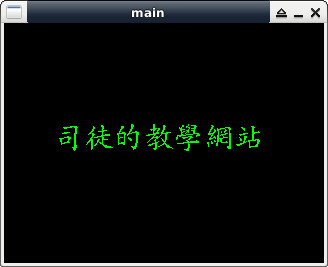
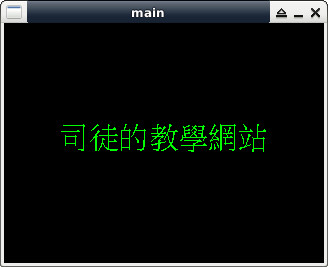
update sdl pages

Changed region(s): [[0.1829, 0.4494, 0.8232, 0.5693]]

diff --git a/phone/xt897/lipstick.htm b/phone/xt897/lipstick.htm
@@ -21,15 +21,15 @@
   <meta name="googlebot" content="noarchive" />
   <meta name="viewport" content="width=device-width, initial-scale=1.0, user-scalable=yes, minimum-scale=0.1, maximum-scale=100.0"/>
 
-  <link rel="shortcut icon" href="../../../../website.ico">
-  <link rel="stylesheet" type="text/css" href="../../../styles/shCore.css" />
-  <link rel="stylesheet" type="text/css" href="../../../styles/shThemeDefault.css" />
-  <link rel="stylesheet" type="text/css" href="../../../css/html.css" media="screen, projection, tv " />
-  <link rel="stylesheet" type="text/css" href="../../../css/layout.css" media="screen, projection, tv" />
-  <link rel="stylesheet" type="text/css" href="../../../css/print.css" media="print" />
+  <link rel="shortcut icon" href="../../website.ico">
+  <link rel="stylesheet" type="text/css" href="../../styles/shCore.css" />
+  <link rel="stylesheet" type="text/css" href="../../styles/shThemeDefault.css" />
+  <link rel="stylesheet" type="text/css" href="../../css/html.css" media="screen, projection, tv " />
+  <link rel="stylesheet" type="text/css" href="../../css/layout.css" media="screen, projection, tv" />
+  <link rel="stylesheet" type="text/css" href="../../css/print.css" media="print" />
   
-  <script type="text/javascript" src="../../../scripts/shCore.js"></script>
-  <script type="text/javascript" src="../../../scripts/shBrushCpp.js"></script>
+  <script type="text/javascript" src="../../scripts/shCore.js"></script>
+  <script type="text/javascript" src="../../scripts/shBrushCpp.js"></script>
 
   <!-- Conditional comment to apply opacity fix for IE #content background.
        Invalid CSS, but can be removed without harming design -->
@@ -42,51 +42,22 @@
 <script type="text/javascript">SyntaxHighlighter.all();</script>
 <div id="wrapper">
 <div id="content">
-<script type="text/javascript" src="../../../header.js"></script>
+<script type="text/javascript" src="../../header.js"></script>
 <div id="page">
-<h3>SDL v1.2 &gt;&gt; C/C++</h3>
-<p><b>Load Music</b></p>
+<h3>Motorola XT897 &gt;&gt; Sailfish</h3>
+<p><b>如何旋轉畫面</b></p>
 <hr size="1">
 <p>
-參考資訊：<br>
-1. <a href="https://www.libsdl.org/release/SDL-1.2.15/docs/html/index.html">docs</a><br><br>
-
-main.c
-</p>
-<pre class="brush:cpp">
-#include &lt;stdio.h&gt;
-#include &lt;stdlib.h&gt;
-#include &lt;SDL.h&gt;
-#include &lt;SDL_mixer.h&gt;
-
-int main(int argc, char** argv)
-{
-  SDL_Init(SDL_INIT_VIDEO | SDL_INIT_AUDIO);
-  Mix_OpenAudio(44100, MIX_DEFAULT_FORMAT, 2, 4096);
- 
-  Mix_Music *music = Mix_LoadMUS("main.wav");
-  Mix_PlayMusic(music, 1);
-  SDL_Delay(3000);
-
-  Mix_HaltMusic();
-  Mix_FreeMusic(music);
-  Mix_CloseAudio();
-  SDL_Quit();
-  return 0;
-}
-</pre>
-<p>
-P.S. 支援WAVE, MOD, MIDI, OGG, MP3, FLAC<br><br>
-
-編譯、執行
+步驟如下：
 </p>
 <pre>
-$ gcc main.c -o main -lSDL -lSDL_mixer -I/usr/include/SDL
-$ ./main
+$ dconf write /lipstick/orientationLock \'auto\'
+$ dconf write /lipstick/orientationLock \'protrait\'
+$ dconf write /lipstick/orientationLock \'landscape\'
 </pre><br>
 
 <p>
-<br><a href="../../../program.htm">返回上一頁</a>
+<br><a href="../../phone.htm">返回上一頁</a>
 </p>
 
 </div>

diff --git a/program/sdl/v2.0/cpp_font.htm b/program/sdl/v2.0/cpp_font.htm
@@ -68,7 +68,8 @@ int main(int argc, char **argv)
   SDL_Surface *screen=NULL;
   SDL_Texture *texture=NULL;
   SDL_Renderer *renderer=NULL;
- 
+
+  SDL_Init(SDL_INIT_VIDEO);
   window = SDL_CreateWindow("main", SDL_WINDOWPOS_UNDEFINED, SDL_WINDOWPOS_UNDEFINED, w, h, SDL_WINDOW_SHOWN);
   renderer = SDL_CreateRenderer(window, -1, SDL_RENDERER_ACCELERATED | SDL_RENDERER_PRESENTVSYNC);
   screen = SDL_CreateRGBSurface(0, w, h, bpp, 0, 0, 0, 0);
@@ -77,10 +78,15 @@ int main(int argc, char **argv)
   TTF_Init();
   TTF_Font *font = TTF_OpenFont("font.ttf", 30);
   SDL_FillRect(screen, &amp;screen-&gt;clip_rect, SDL_MapRGB(screen-&gt;format, 0x00, 0x00, 0x00));
- 
+
+  int ww=0, hh=0;
   SDL_Color col={0, 255, 0};
-  SDL_Rect rt={50, 100, 0, 0};
-  SDL_Surface *msg = TTF_RenderUTF8_Solid(font, "司徒的教學網站", col);
+  SDL_Rect rt={0, 100, 0, 0};
+  const char* cc="司徒的教學網站";
+
+  TTF_SizeUTF8(font, cc, &amp;ww, &amp;hh);
+  rt.x = (w - ww) / 2;
+  SDL_Surface *msg = TTF_RenderUTF8_Solid(font, cc, col);
   SDL_BlitSurface(msg, NULL, screen, &amp;rt);
   SDL_FreeSurface(msg);
  

diff --git a/program/sdl/v1.2/cpp_font.htm b/program/sdl/v1.2/cpp_font.htm
@@ -70,14 +70,19 @@ int main(int argc, char* args[])
   TTF_Font *font = TTF_OpenFont("font.ttf", 30);
   SDL_FillRect(screen, &amp;screen-&gt;clip_rect, SDL_MapRGB(screen-&gt;format, 0x00, 0x00, 0x00));
 
+  int w=0, h=0;
   SDL_Color col={0, 255, 0};
-  SDL_Rect rt={50, 100, 0, 0};
-  SDL_Surface *msg = TTF_RenderUTF8_Solid(font, "司徒的教學網站", col);
+  SDL_Rect rt={0, 100, 0, 0};
+  const char* cc="司徒的教學網站";
+
+  TTF_SizeUTF8(font, cc, &amp;w, &amp;h);
+  rt.x = (320 - w) / 2;
+  SDL_Surface *msg = TTF_RenderUTF8_Solid(font, cc, col);
   SDL_BlitSurface(msg, NULL, screen, &amp;rt);
   SDL_Flip(screen);
   SDL_FreeSurface(msg);
   SDL_Delay(3000);
-  
+
   TTF_CloseFont(font);
   TTF_Quit();
   SDL_Quit();

diff --git a/program/sdl/v2.0/cpp_font_rw.htm b/program/sdl/v2.0/cpp_font_rw.htm
@@ -70,7 +70,8 @@ int main(int argc, char **argv)
   SDL_Surface *screen=NULL;
   SDL_Texture *texture=NULL;
   SDL_Renderer *renderer=NULL;
-  
+
+  SDL_Init(SDL_INIT_VIDEO);
   window = SDL_CreateWindow("main", SDL_WINDOWPOS_UNDEFINED, SDL_WINDOWPOS_UNDEFINED, w, h, SDL_WINDOW_SHOWN);
   renderer = SDL_CreateRenderer(window, -1, SDL_RENDERER_ACCELERATED | SDL_RENDERER_PRESENTVSYNC);
   screen = SDL_CreateRGBSurface(0, w, h, bpp, 0, 0, 0, 0);

diff --git a/program/sdl/v2.0/cpp_alpha.htm b/program/sdl/v2.0/cpp_alpha.htm
@@ -68,7 +68,8 @@ int main(int argc, char **argv)
   SDL_Surface *screen=NULL;
   SDL_Texture *texture=NULL;
   SDL_Renderer *renderer=NULL;
- 
+
+  SDL_Init(SDL_INIT_VIDEO);
   window = SDL_CreateWindow("main", SDL_WINDOWPOS_UNDEFINED, SDL_WINDOWPOS_UNDEFINED, w, h, SDL_WINDOW_SHOWN);
   renderer = SDL_CreateRenderer(window, -1, SDL_RENDERER_ACCELERATED | SDL_RENDERER_PRESENTVSYNC);
   screen = SDL_CreateRGBSurface(0, w, h, bpp, 0, 0, 0, 0);

diff --git a/program/sdl/v2.0/cpp_blit.htm b/program/sdl/v2.0/cpp_blit.htm
@@ -67,7 +67,8 @@ int main(int argc, char** argv)
   SDL_Surface *screen=NULL;
   SDL_Texture *texture=NULL;
   SDL_Renderer *renderer=NULL;
- 
+
+  SDL_Init(SDL_INIT_VIDEO);
   window = SDL_CreateWindow("main", SDL_WINDOWPOS_UNDEFINED, SDL_WINDOWPOS_UNDEFINED, w, h, SDL_WINDOW_SHOWN);
   renderer = SDL_CreateRenderer(window, -1, SDL_RENDERER_ACCELERATED | SDL_RENDERER_PRESENTVSYNC);
   screen = SDL_CreateRGBSurface(0, w, h, bpp, 0, 0, 0, 0);

diff --git a/program/sdl/v2.0/cpp_bmp_rw.htm b/program/sdl/v2.0/cpp_bmp_rw.htm
@@ -69,7 +69,8 @@ int main(int argc, char** argv)
   SDL_Surface *screen=NULL;
   SDL_Texture *texture=NULL;
   SDL_Renderer *renderer=NULL;
- 
+
+  SDL_Init(SDL_INIT_VIDEO);
   window = SDL_CreateWindow("main", SDL_WINDOWPOS_UNDEFINED, SDL_WINDOWPOS_UNDEFINED, w, h, SDL_WINDOW_SHOWN);
   renderer = SDL_CreateRenderer(window, -1, SDL_RENDERER_ACCELERATED | SDL_RENDERER_PRESENTVSYNC);
   screen = SDL_CreateRGBSurface(0, w, h, bpp, 0, 0, 0, 0);

diff --git a/program/sdl/v2.0/cpp_colorkey.htm b/program/sdl/v2.0/cpp_colorkey.htm
@@ -67,7 +67,8 @@ int main(int argc, char** argv)
   SDL_Surface *screen=NULL;
   SDL_Texture *texture=NULL;
   SDL_Renderer *renderer=NULL;
- 
+
+  SDL_Init(SDL_INIT_VIDEO);
   window = SDL_CreateWindow("main", SDL_WINDOWPOS_UNDEFINED, SDL_WINDOWPOS_UNDEFINED, w, h, SDL_WINDOW_SHOWN);
   renderer = SDL_CreateRenderer(window, -1, SDL_RENDERER_ACCELERATED | SDL_RENDERER_PRESENTVSYNC);
   screen = SDL_CreateRGBSurface(0, w, h, bpp, 0, 0, 0, 0);

diff --git a/program/sdl/v2.0/cpp_convert.htm b/program/sdl/v2.0/cpp_convert.htm
@@ -67,7 +67,8 @@ int main(int argc, char** argv)
   SDL_Surface *screen=NULL;
   SDL_Texture *texture=NULL;
   SDL_Renderer *renderer=NULL;
- 
+
+  SDL_Init(SDL_INIT_VIDEO);
   window = SDL_CreateWindow("main", SDL_WINDOWPOS_UNDEFINED, SDL_WINDOWPOS_UNDEFINED, w, h, SDL_WINDOW_SHOWN);
   renderer = SDL_CreateRenderer(window, -1, SDL_RENDERER_ACCELERATED | SDL_RENDERER_PRESENTVSYNC);
   screen = SDL_CreateRGBSurface(0, w, h, bpp, 0, 0, 0, 0);

diff --git a/program/sdl/v2.0/cpp_pixels.htm b/program/sdl/v2.0/cpp_pixels.htm
@@ -67,7 +67,8 @@ int main(int argc, char **argv)
   SDL_Surface *screen=NULL;
   SDL_Texture *texture=NULL;
   SDL_Renderer *renderer=NULL;
- 
+
+  SDL_Init(SDL_INIT_VIDEO);
   window = SDL_CreateWindow("main", SDL_WINDOWPOS_UNDEFINED, SDL_WINDOWPOS_UNDEFINED, w, h, SDL_WINDOW_SHOWN);
   renderer = SDL_CreateRenderer(window, -1, SDL_RENDERER_ACCELERATED | SDL_RENDERER_PRESENTVSYNC);
   screen = SDL_CreateRGBSurface(0, w, h, bpp, 0, 0, 0, 0);

diff --git a/program/sdl/v2.0/cpp_png_rw.htm b/program/sdl/v2.0/cpp_png_rw.htm
@@ -70,7 +70,8 @@ int main(int argc, char** argv)
   SDL_Surface *screen=NULL;
   SDL_Texture *texture=NULL;
   SDL_Renderer *renderer=NULL;
- 
+
+  SDL_Init(SDL_INIT_VIDEO);
   window = SDL_CreateWindow("main", SDL_WINDOWPOS_UNDEFINED, SDL_WINDOWPOS_UNDEFINED, w, h, SDL_WINDOW_SHOWN);
   renderer = SDL_CreateRenderer(window, -1, SDL_RENDERER_ACCELERATED | SDL_RENDERER_PRESENTVSYNC);
   screen = SDL_CreateRGBSurface(0, w, h, bpp, 0, 0, 0, 0);

diff --git a/program/sdl/v2.0/cpp_rotate.htm b/program/sdl/v2.0/cpp_rotate.htm
@@ -67,7 +67,8 @@ int main(int argc, char** argv)
   SDL_Surface *screen=NULL;
   SDL_Texture *texture=NULL;
   SDL_Renderer *renderer=NULL;
- 
+
+  SDL_Init(SDL_INIT_VIDEO);
   window = SDL_CreateWindow("main", SDL_WINDOWPOS_UNDEFINED, SDL_WINDOWPOS_UNDEFINED, w, h, SDL_WINDOW_SHOWN);
   renderer = SDL_CreateRenderer(window, -1, SDL_RENDERER_ACCELERATED | SDL_RENDERER_PRESENTVSYNC);
   screen = SDL_CreateRGBSurface(0, w, h, bpp, 0, 0, 0, 0);
